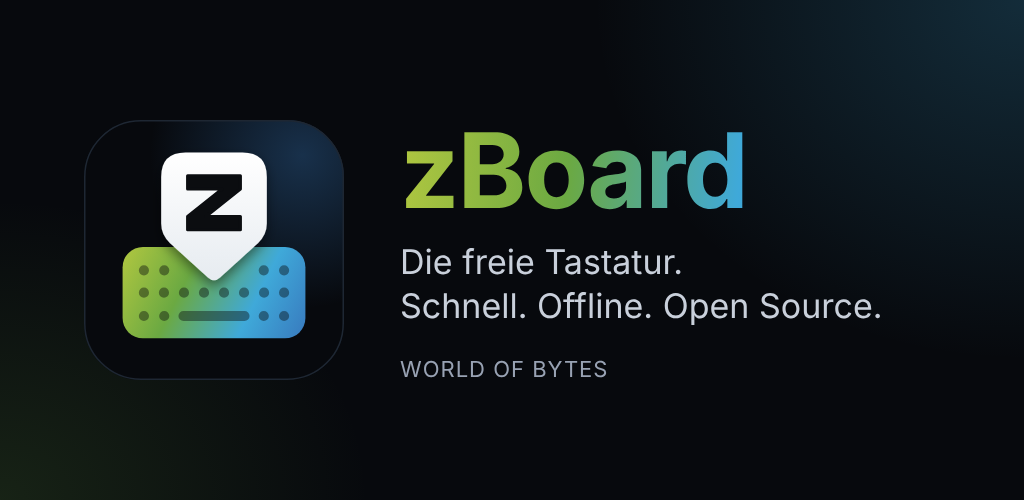
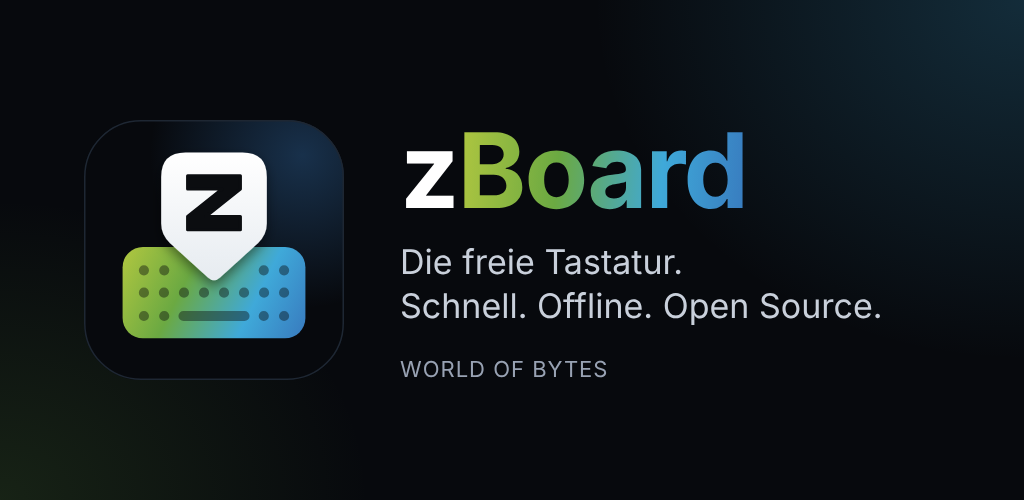
Store-Grafik: z im Schriftzug zBoard weiß

Changed region(s): [[0.5625, 0.27, 0.75, 0.42], [0.375, 0.3, 0.4688, 0.42]]

diff --git a/tools/render_store_graphics.js b/tools/render_store_graphics.js
@@ -20,14 +20,15 @@ const feature = `<!doctype html><html><head><style>
     display: flex; align-items: center; gap: 56px; padding: 0 84px; box-sizing: border-box;
   }
   .logo svg { width: 260px; height: 260px; display: block; }
-  h1 { margin: 0; font-size: 104px; line-height: 1; letter-spacing: -2px; font-weight: 700;
-       background: linear-gradient(95deg, #B1C740 0%, #6BA942 35%, #3FA9D9 70%, #387ABE 100%);
+  /* Das „z“ von zBoard ist immer schwarz oder weiß – hier weiß, nur „Board“ trägt den Markenverlauf */
+  h1 { margin: 0; font-size: 104px; line-height: 1; letter-spacing: -2px; font-weight: 700; color: #FFFFFF; }
+  h1 .board { background: linear-gradient(95deg, #B1C740 0%, #6BA942 35%, #3FA9D9 70%, #387ABE 100%);
        -webkit-background-clip: text; background-clip: text; color: transparent; }
   p { margin: 18px 0 0; font-size: 34px; line-height: 1.3; color: #C9D0DB; }
   .by { margin-top: 28px; font-size: 22px; color: #98A2B3; letter-spacing: 1px; }
 </style></head><body>
   <div class="logo">${logo.replace(/width="\d+" height="\d+"/, '')}</div>
-  <div><h1>zBoard</h1><p>Die freie Tastatur.<br>Schnell. Offline. Open Source.</p><div class="by">WORLD OF BYTES</div></div>
+  <div><h1>z<span class="board">Board</span></h1><p>Die freie Tastatur.<br>Schnell. Offline. Open Source.</p><div class="by">WORLD OF BYTES</div></div>
 </body></html>`;
 
 (async () => {
